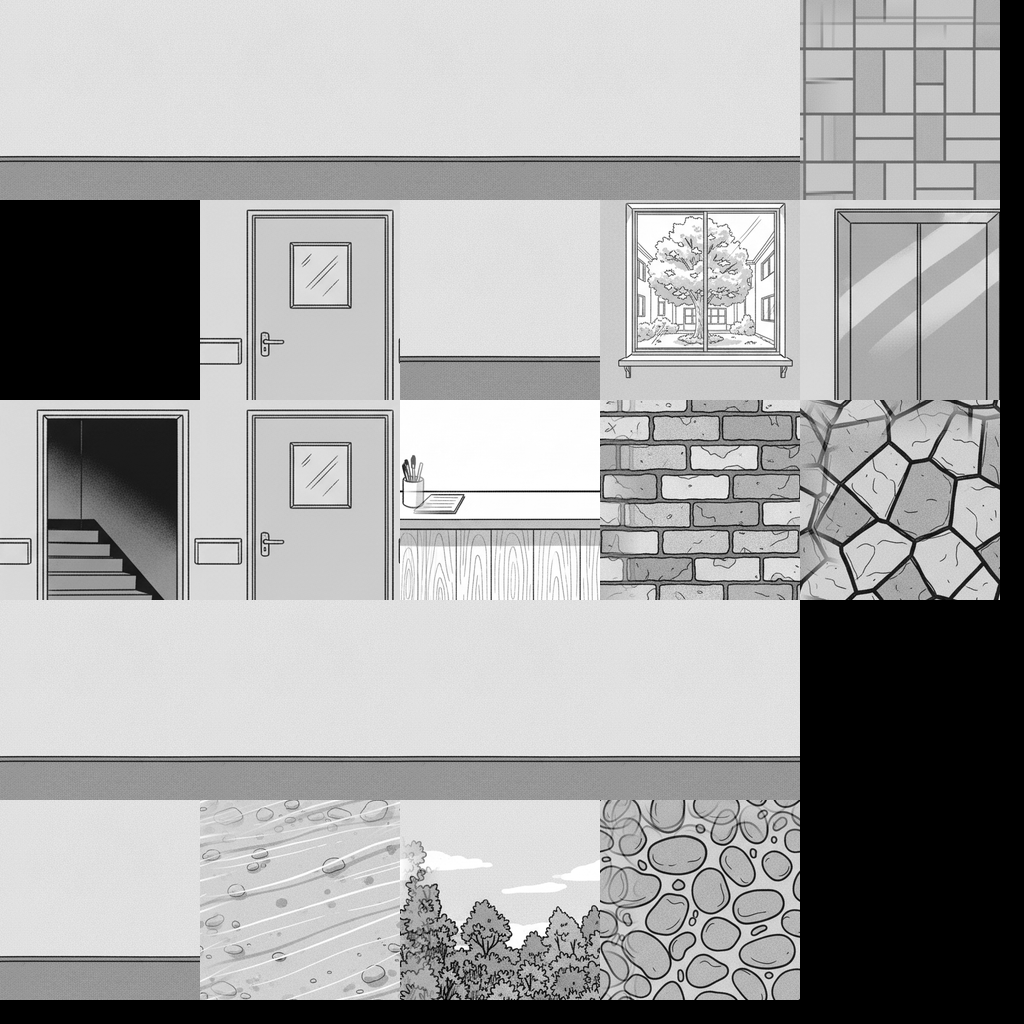
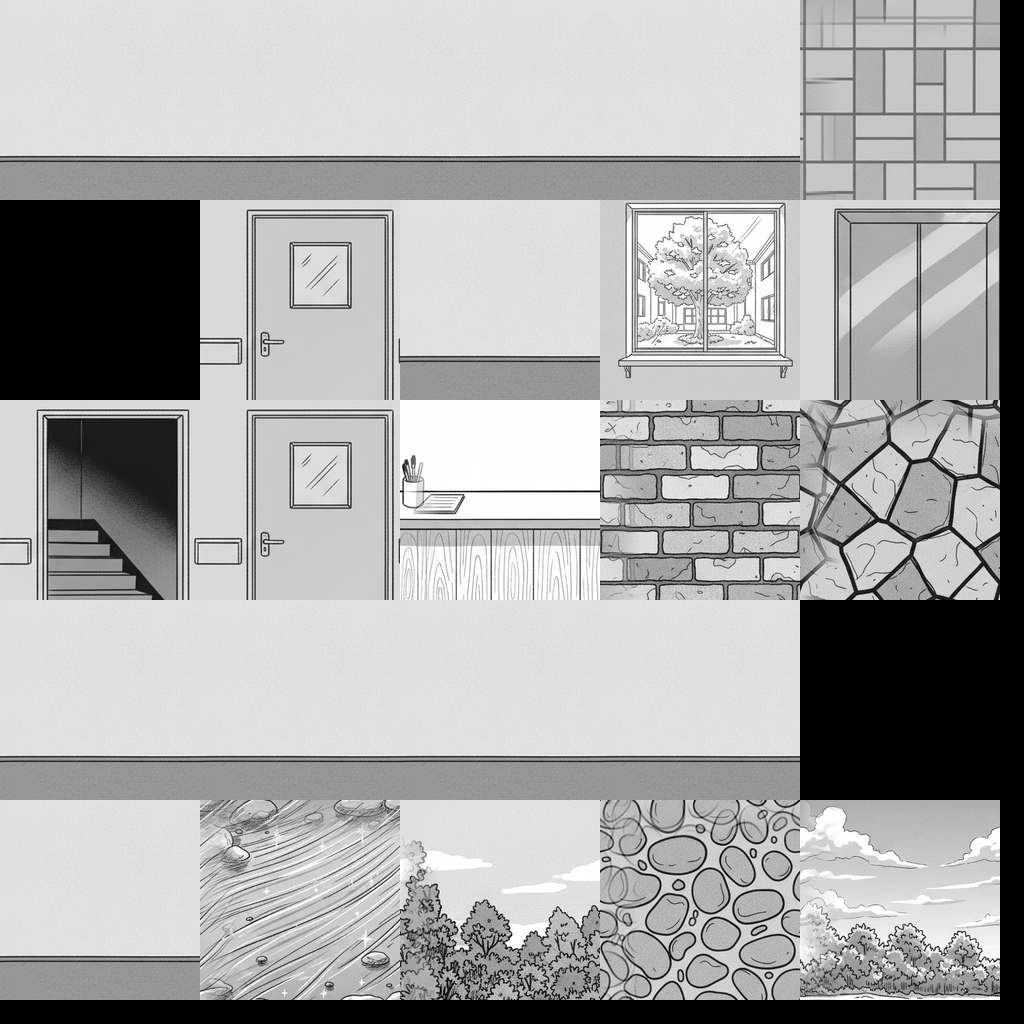
병문안 v0.76: 진짜 강 같은 강가, 계속 찾을 수 있는 소녀의 물건, 미니맵
- 강가: 아이를 빽빽한 수풀 뒤에 숨김, 하늘과 강 건너 숲을 세 칸에 이어지는 높은 배경판으로,
  흐르는 강물, 강 폭 한 줄 넓힘, 바깥은 안개를 옅게
- 소녀의 물건은 그날부터 주울 때까지 남고, 1회차에도 할 일이 끝나면 그 층을 알려 줌
- 오른쪽 위 미니맵: 주변 9칸, 내 방향, 목표(다른 층이면 엘리베이터)까지의 길
- Gemini 2회(누적 40회)

Changed region(s): [[0.7812, 0.7812, 1.0, 1.0], [0.1875, 0.7812, 0.4062, 1.0]]

diff --git a/src/features/visit/hospitalScene.ts b/src/features/visit/hospitalScene.ts
@@ -9,7 +9,10 @@ const FOCUS_MS = 420;
 const EYE = 0.64;
 const WALL_H = 1.25;
 const YARD_WALL_H = 3;
-const RIVER_TREES_H = 1.05;
+// High enough that the sky drawn over the trees fills the view above them.
+const RIVER_TREES_H = 2.6;
+// how many cells one drawing of the riverside's backdrop spans
+const RIVER_SPAN = 3;
 // A little behind the middle of the cell, or a wall ahead would fill the screen.
 const STAND_BACK = 0.36;
 // How dark everything but the person or thing you're looking at gets.
@@ -32,7 +35,7 @@ const INK = [0.09, 0.08, 0.06];
 const PAPER = [0.93, 0.9, 0.84];
 // v0.74: each a little brighter, so the drawn walls read without the quiet going out of the upper floors.
 const FLOOR_LIGHT: Record<FloorNo, number> = { 0: 1.14, 1: 1.1, 2: 1.04, 3: 0.91, 4: 0.8 };
-const FOG_COLOR: Record<FloorNo, number[]> = { 0: [0.55, 0.54, 0.5], 1: [0.26, 0.25, 0.23], 2: [0.21, 0.2, 0.19], 3: [0.14, 0.14, 0.13], 4: [0.09, 0.09, 0.09] };
+const FOG_COLOR: Record<FloorNo, number[]> = { 0: [0.8, 0.8, 0.77], 1: [0.26, 0.25, 0.23], 2: [0.21, 0.2, 0.19], 3: [0.14, 0.14, 0.13], 4: [0.09, 0.09, 0.09] };
 
 const VERTEX = /* glsl */ `
 attribute float aShade;
@@ -61,6 +64,8 @@ uniform float uDim;
 uniform vec3 uInk;
 uniform vec3 uPaper;
 uniform vec3 uFog;
+// how far the fog reaches: 1 indoors; out of doors only a haze, so the far bank and its sky still show
+uniform float uFogFar;
 uniform vec3 uDayLight;
 varying vec2 vUv;
 varying float vShade;
@@ -72,7 +77,7 @@ void main() {
   vec3 c = mix(uInk, uPaper, v) * vShade * uFloorLight;
   if (vLit > 1.5) c = vec3(0.64, 0.15, 0.25) * v;
   else if (vLit > 0.5 && v > 0.75) c = uDayLight * v;
-  float fog = smoothstep(1.2, 6.5, vDist);
+  float fog = smoothstep(1.2, 6.5 * uFogFar, vDist) * (uFogFar > 1.5 ? 0.35 : 1.0);
   // the window's light stays when the room dims around whoever you're looking at
   if (vLit > 0.5 && vLit < 1.5 && v > 0.75) gl_FragColor = vec4(c, 1.0);
   else gl_FragColor = vec4(mix(c, uFog, fog) * uDim, 1.0);
@@ -126,7 +131,7 @@ const SPRITE_SIZE: Partial<Record<SpriteLook, { w: number; h: number }>> = {
   riverCar: { w: 0.85, h: 0.85 },
   riverRocks: { w: 1.1, h: 1.1 },
   riverTent: { w: 1.3, h: 0.65 },
-  riverReeds: { w: 0.85, h: 0.85 },
+  riverBushes: { w: 1.1, h: 1.1 },
   collar: { w: 0.24, h: 0.24 },
   snack: { w: 0.24, h: 0.24 },
   laces: { w: 0.24, h: 0.24 },
@@ -272,6 +277,7 @@ export async function createHospitalScene(host: HTMLElement, dayLight: string): 
     uInk: { value: new THREE.Vector3(...INK) },
     uPaper: { value: new THREE.Vector3(...PAPER) },
     uFog: { value: new THREE.Vector3() },
+    uFogFar: { value: 1 },
     uDayLight: { value: new THREE.Color(dayLight) },
   };
   // Only the building dims when you focus: whoever you're looking at stays in the light.
@@ -377,12 +383,14 @@ export async function createHospitalScene(host: HTMLElement, dayLight: string): 
     const lits: number[] = [];
     const indices: number[] = [];
 
-    const quad = (corners: number[][], tile: number, o: { flip?: boolean; shade: number; lit?: boolean; flat?: boolean }) => {
+    // `part`: [k, n], the kth of n strips of the tile, for a drawing that runs on across n cells (the riverside's backdrop)
+    const quad = (corners: number[][], tile: number, o: { flip?: boolean; shade: number; lit?: boolean; flat?: boolean; part?: [number, number] }) => {
       const base = positions.length / 3;
       const { x, y } = tileAt(tile);
       const pad = 2;
-      const u0 = (x + pad) / SHEET;
-      const u1 = (x + TILE - pad) / SHEET;
+      const [k, n] = o.part ?? [0, 1];
+      const u0 = (x + pad + ((TILE - pad * 2) * k) / n) / SHEET;
+      const u1 = (x + pad + ((TILE - pad * 2) * (k + 1)) / n) / SHEET;
       const v0 = (y + pad) / SHEET;
       const v1 = (y + TILE - pad) / SHEET;
       const left = o.flip ? u1 : u0;
@@ -455,7 +463,8 @@ export async function createHospitalScene(host: HTMLElement, dayLight: string): 
         else if (here === '+') tile = TILES.jamb;
         else if (floor === 1 && (here === 'M' || here === 'm')) tile = TILES.shelf;
         else if (floor === 1 && here === 'i' && d === 2) tile = TILES.floorGuide;
-        else if (floor === 0) tile = TILES.treeline;
+        // across the river, the far bank; on the other sides the woods
+        else if (floor === 0) tile = d === 2 ? TILES.farBank : TILES.treeline;
         else if (yard) tile = TILES.yardWall;
         // windows: the end of her floor's corridor, above her bed, and the sitting room on the second
         else if ((here === 'W' && d === 2) || (floor === 4 && here === '_' && x === WINDOW_X && d === 2) || (floor === 2 && here === 'V' && d === 0)) {
@@ -466,7 +475,10 @@ export async function createHospitalScene(host: HTMLElement, dayLight: string): 
           flip = false;
         }
         if (tile === TILES.shutDoor || tile === TILES.lift || tile === TILES.stairs || tile === TILES.roomDoor || tile === TILES.window || tile === TILES.floorGuide) flip = false;
-        quad(wallCorners(x, y, d, h), tile, { shade: SIDE_SHADE[d], flip, lit: lit || tile === TILES.roomDoor });
+        // the riverside's woods and far bank run on across three cells, so they don't repeat cell by cell
+        const along = d === 0 ? x : d === 2 ? -x - 1 : d === 1 ? y : -y - 1;
+        const part: [number, number] | undefined = floor === 0 ? [((along % RIVER_SPAN) + RIVER_SPAN) % RIVER_SPAN, RIVER_SPAN] : undefined;
+        quad(wallCorners(x, y, d, h), tile, { shade: SIDE_SHADE[d], flip: floor === 0 ? false : flip, lit: lit || tile === TILES.roomDoor, part });
       }
     }
 
@@ -684,6 +696,7 @@ export async function createHospitalScene(host: HTMLElement, dayLight: string): 
     showFloor: (floor, sprites, pose, roomShut) => {
       shared.uFloorLight.value = FLOOR_LIGHT[floor];
       shared.uFog.value.set(FOG_COLOR[floor][0], FOG_COLOR[floor][1], FOG_COLOR[floor][2]);
+      shared.uFogFar.value = floor === 0 ? 2 : 1;
       renderer.setClearColor(new THREE.Color(FOG_COLOR[floor][0], FOG_COLOR[floor][1], FOG_COLOR[floor][2]));
       buildFloor(floor, roomShut);
       buildSprites(sprites, pose);

diff --git a/src/features/visit/Hospital.tsx b/src/features/visit/Hospital.tsx
@@ -3,12 +3,13 @@ import { Animated, Platform, StyleSheet, Text, TextInput, TouchableOpacity, View
 import { VISIT_DEV } from './flag';
 import { girlOn, PIN_ON } from './girlDays';
 import { createHospitalScene, type FocusTarget, type HospitalScene, type HospitalSprite, type SpriteLook } from './hospitalScene';
-import { ahead, ALONG_THE_WALLS, arrival, arrowFor, BEDSIDE, CLUE_CELLS, DOCTOR_FRONT, RIVER_FOUND, RIVER_MEET, RIVER_START, ENTRANCE, FLOOR_ORDER, GIRL_FRONT, goalFor, HOSPITAL, LIFT_FRONT, OUTSIDE_ROOM, placeName, ROOM_ENTRY, SHOP_FRONT, STAIRS_FRONT, stepped, thingAt, turn, tutorialAfter, tutorialGoal, type Dir, type FloorNo, type Pose, type Thing, type TutorialStep } from './hospitalMap';
+import { ahead, ALONG_THE_WALLS, arrival, arrowFor, pathTo, BEDSIDE, CLUE_CELLS, DOCTOR_FRONT, RIVER_FOUND, RIVER_MEET, RIVER_START, ENTRANCE, FLOOR_ORDER, GIRL_FRONT, goalFor, HOSPITAL, LIFT_FRONT, OUTSIDE_ROOM, placeName, ROOM_ENTRY, SHOP_FRONT, STAIRS_FRONT, stepped, thingAt, turn, tutorialAfter, tutorialGoal, type Dir, type FloorNo, type Pose, type Thing, type TutorialStep } from './hospitalMap';
 import PaperButton from './PaperButton';
 import { clueOn, CLUES, type ClueId } from './progress';
 import { boughtLine, CLUE_SPOT, CLUE_TEXT, FLOORS, FOLLOW_LIGHT, GIFTS, GUIDE_FIRST_LINES, HINT_TITLE, hintLines, PEOPLE, ROOM_SHUT, SOLD_TODAY, TUTORIAL_OK, TUTORIAL_SKIP, TUTORIAL_TIPS, TUTORIAL_TITLE, nextDayQuestion, untilTomorrow, WRITE_CRISIS, WRITE_FAILED, WRITE_OWN, WRITE_WAITING } from './script';
 import { doctorTalk, personTalk, requestGoal, REQUESTS, type Request, type Talk } from './requests';
 import BreatheTogether from './BreatheTogether';
+import Minimap from './Minimap';
 import { soundsLikeCrisis } from './safety';
 import { sendPersonaMessage, type ChatMessage } from '@/features/ai';
 import { makeSubmitOnEnterHandler } from '@/core/hooks/useSubmitOnEnter';
@@ -29,7 +30,7 @@ const TOUCH = Platform.OS !== 'web' || (typeof window !== 'undefined' && !!windo
 // The letter keys by where they sit, so they still work with the keyboard set to Hangul.
 const KEY_AT: Record<string, string> = { KeyW: 'w', KeyA: 'a', KeyS: 's', KeyD: 'd' };
 const PROP_ON_FLOOR: Record<number, SpriteLook> = { 3: 'gurney', 2: 'cart', 1: 'vending', 0: 'riverRocks' };
-const RIVER_PROP: Record<string, SpriteLook> = { C: 'riverCar', A: 'riverTent', R: 'riverReeds' };
+const RIVER_PROP: Record<string, SpriteLook> = { C: 'riverCar', A: 'riverTent', R: 'riverBushes' };
 const MEMORY_MS = 2600;
 
 /** Someone's remembered day, walked through: whose, how far in, and where you were in the hospital before it. */
@@ -503,7 +504,8 @@ export default function Hospital({ day, run, fontScale, light, doneToday, bought
   }, []);
 
   // Only the fairy's note makes a clue a goal, so a first run still stumbles on them.
-  const todaysClue = CLUES.find((c) => c.day === day && !found.includes(c.id)) ?? null;
+  // the first of her things that's out and not yet found
+  const todaysClue = CLUES.find((c) => c.day <= day && !found.includes(c.id)) ?? null;
   const goal = memory
     ? memory.stage === 'meet'
       ? { text: '강가의 아이에게 가기', floor: 0 as FloorNo, cell: { x: RIVER_MEET.x, y: RIVER_MEET.y }, face: RIVER_MEET.dir }
@@ -512,10 +514,13 @@ export default function Hospital({ day, run, fontScale, light, doneToday, bought
     doneToday,
     metDoctor: day < 7 ? metDoctor : undefined,
     request: requestGoal(asked, solved),
+    somethingOfHers: run < 2 && todaysClue ? (todaysClue.floor as FloorNo) : null,
     boughtToday,
     clueToFind: run >= 2 && todaysClue ? { floor: todaysClue.floor as FloorNo, name: CLUE_TEXT[todaysClue.id].name } : null,
   });
   const arrow = arrowFor(pose, goal);
+  // On the minimap: the goal if it's on this floor, otherwise the lift that gets you there.
+  const goalCell = !goal ? null : goal.floor === pose.floor ? goal.cell : pose.floor === 0 ? null : LIFT_FRONT;
   const textSize = { fontSize: 14 * fontScale, lineHeight: 21 * fontScale };
 
   const nextLesson = tutorialAfter(tutorial, {
@@ -604,6 +609,11 @@ export default function Hospital({ day, run, fontScale, light, doneToday, bought
               <TouchableOpacity style={[styles.mapButton, VISIT_DEV && styles.belowDev, memory && styles.hidden]} disabled={!!memory} onPress={() => panel === 'none' && !transit && setPanel('map')}>
                 <Text style={styles.mapButtonText}>지도</Text>
               </TouchableOpacity>
+              {!memory && (
+                <View style={[styles.minimap, VISIT_DEV && styles.belowDev]} pointerEvents="none">
+                  <Minimap pose={pose} goal={goalCell} path={goalCell ? pathTo(pose.floor, pose, goalCell) : []} />
+                </View>
+              )}
             </>
           )
         )}
@@ -909,6 +919,7 @@ const styles = StyleSheet.create({
   goalRow: { flexDirection: 'row', alignItems: 'center', gap: 6, alignSelf: 'flex-start', backgroundColor: 'rgba(0,0,0,0.72)', borderWidth: 1.5, borderColor: '#f2f2f2', paddingHorizontal: 9, paddingVertical: 5 },
   goalArrow: { color: AMBER, fontSize: 20, fontWeight: '700', lineHeight: 22 },
   goalText: { color: '#fff', fontFamily: 'serif', flexShrink: 1 },
+  minimap: { position: 'absolute', right: 10, top: 52 },
   mapButton: { position: 'absolute', right: 10, top: 10, paddingHorizontal: 12, paddingVertical: 8, backgroundColor: 'rgba(0,0,0,0.72)', borderWidth: 1.5, borderColor: '#f2f2f2' },
   mapButtonText: { color: '#fff', fontSize: 14, fontFamily: 'serif' },
   bottomStack: { position: 'absolute', left: 14, right: 14, bottom: 12, gap: 8 },

diff --git a/src/features/visit/hospitalMap.ts b/src/features/visit/hospitalMap.ts
@@ -13,7 +13,7 @@ export type Pose = Cell & { floor: FloorNo; dir: Dir };
 export const FLOOR_ORDER: FloorNo[] = [4, 3, 2, 1];
 
 export const HOSPITAL: Record<FloorNo, { map: string[]; rooms: Record<string, string>; blocked?: string }> = {
-  // A summer riverside: C the car, A the tent, R reeds, % rocks, ~ the river. k is where the boy waits, j where he's found.
+  // A summer riverside: C the car, A the tent, R thick bushes (nothing behind them shows), % rocks, ~ the river. k is where the boy waits, j where he's found.
   0: {
     map: [
       '###########',
@@ -22,6 +22,7 @@ export const HOSPITAL: Record<FloorNo, { map: string[]; rooms: Record<string, st
       '#.A...RRR.#',
       '#.....Rj..#',
       '#..k..R%%.#',
+      '#~~~~~~~~~#',
       '#~~~~~~~~~#',
       '#~~~~~~~~~#',
       '###########',
@@ -209,6 +210,19 @@ export function firstStep(floor: FloorNo, from: Cell, to: Cell): Dir | null {
   return step.dir;
 }
 
+/** The cells of a shortest walk, not counting where you are; empty if there's no way or you're there. */
+export function pathTo(floor: FloorNo, from: Cell, to: Cell): Cell[] {
+  const out: Cell[] = [];
+  let at: Cell = from;
+  for (let i = 0; i < 200; i++) {
+    const d = firstStep(floor, at, to);
+    if (d === null) break;
+    at = { x: at.x + DX[d], y: at.y + DY[d] };
+    out.push(at);
+  }
+  return out;
+}
+
 export type Goal = {
   text: string;
   floor: FloorNo;
@@ -218,12 +232,14 @@ export type Goal = {
   face?: Dir;
 };
 
-export function goalFor(o: { doneToday: boolean; boughtToday: boolean; clueToFind: { floor: FloorNo; name: string } | null; metDoctor?: boolean; request?: Goal | null }): Goal | null {
+export function goalFor(o: { doneToday: boolean; boughtToday: boolean; clueToFind: { floor: FloorNo; name: string } | null; metDoctor?: boolean; request?: Goal | null; somethingOfHers?: FloorNo | null }): Goal | null {
   if (!o.doneToday) return { text: '4층 소녀의 병실로 가기', floor: 4, cell: ROOM_ENTRY };
   if (o.metDoctor === false) return { text: '4층 의사 선생님의 방에 가기', floor: 4, cell: DOCTOR_FRONT, face: 2 };
   if (o.request) return o.request;
   if (o.clueToFind) return { text: `${o.clueToFind.floor}층에서 ${o.clueToFind.name} 찾기`, floor: o.clueToFind.floor, cell: null };
   if (!o.boughtToday) return { text: '1층 매점에서 선물 고르기', floor: 1, cell: SHOP_FRONT, face: 0 };
+  // Before the fairy says what it is, only that something of hers is on that floor.
+  if (o.somethingOfHers) return { text: `${o.somethingOfHers}층 어딘가에서 그 아이의 물건 찾기`, floor: o.somethingOfHers, cell: null };
   return null;
 }
 
@@ -289,7 +305,7 @@ export function thingAt(p: Pose, clueHere: boolean): Thing | null {
     if (isPerson(c)) return { kind: 'person', id: `0${c}` };
     if (c === 'C') return { kind: 'look', text: '타고 온 차다. 트렁크가 열려 있다.' };
     if (c === 'A') return { kind: 'look', text: '텐트다. 팩을 아직 덜 박았다.' };
-    if (c === 'R') return { kind: 'look', text: '갈대가 키만큼 자랐다. 너머가 잘 보이지 않는다.' };
+    if (c === 'R') return { kind: 'look', text: '수풀이 키만큼 빽빽하다. 너머가 보이지 않는다.' };
     if (c === '%') return { kind: 'look', text: HOSPITAL[0].blocked ?? '' };
     if (c === '~') return { kind: 'look', text: '강물이 얕게 반짝인다. 깊은 데는 저 멀리다.' };
     return null;

diff --git a/src/features/visit/Minimap.tsx b/src/features/visit/Minimap.tsx
@@ -1,0 +1,55 @@
+import { StyleSheet, Text, View } from 'react-native';
+import { canStand, charAt, type Cell, type Pose } from './hospitalMap';
+
+// The cells around you, north up: where you are and which way you face, and the way to the goal as a line of dots
+// (docs/병원_지도.md). Nobody is marked on it: people are for finding by walking.
+const REACH = 4;
+const SIZE = 9;
+const AMBER = '#d9a441';
+const ARROW = ['▲', '▶', '▼', '◀'];
+
+export default function Minimap({ pose, path, goal }: { pose: Pose; path: readonly Cell[]; goal: Cell | null }) {
+  const onPath = new Set(path.map((c) => `${c.x},${c.y}`));
+  const rows = [];
+  for (let dy = -REACH; dy <= REACH; dy++) {
+    const cells = [];
+    for (let dx = -REACH; dx <= REACH; dx++) {
+      const x = pose.x + dx;
+      const y = pose.y + dy;
+      const c = charAt(pose.floor, x, y);
+      const here = dx === 0 && dy === 0;
+      const isGoal = !!goal && goal.x === x && goal.y === y;
+      const fill = c === '=' ? '#7a3434' : c === '+' ? '#8a6a2c' : c === 'E' || c === 'S' ? '#3f5d78' : canStand(pose.floor, x, y) ? 'rgba(240,235,223,0.85)' : 'rgba(0,0,0,0.55)';
+      cells.push(
+        <View key={dx} style={[styles.cell, { backgroundColor: fill }]}>
+          {here ? (
+            <Text style={styles.you}>{ARROW[pose.dir]}</Text>
+          ) : isGoal ? (
+            <View style={styles.goal} />
+          ) : onPath.has(`${x},${y}`) ? (
+            <View style={styles.dot} />
+          ) : null}
+        </View>
+      );
+    }
+    rows.push(
+      <View key={dy} style={styles.row}>
+        {cells}
+      </View>
+    );
+  }
+  return (
+    <View style={styles.box} pointerEvents="none" accessibilityLabel="미니맵">
+      {rows}
+    </View>
+  );
+}
+
+const styles = StyleSheet.create({
+  box: { borderWidth: 1.5, borderColor: 'rgba(255,255,255,0.75)', backgroundColor: 'rgba(0,0,0,0.5)', padding: 1 },
+  row: { flexDirection: 'row' },
+  cell: { width: SIZE, height: SIZE, alignItems: 'center', justifyContent: 'center' },
+  you: { color: '#a3263f', fontSize: 9, lineHeight: 10, fontWeight: '700' },
+  goal: { width: 7, height: 7, backgroundColor: AMBER, borderWidth: 1, borderColor: '#000' },
+  dot: { width: 3, height: 3, borderRadius: 1.5, backgroundColor: AMBER },
+});

diff --git a/scripts/assets/generate-hospital-art.js b/scripts/assets/generate-hospital-art.js
@@ -88,6 +88,16 @@ hands unfolding a letter, the writing not visible. Only the hands and forearms s
   // The first day: hair down, both shoulders on the mattress, only her head turning.
   'lying-loose-window': `${LYING_LOOSE} Only her head is turned to the side, her face in profile looking far away out of a window. Calm, a little distant.`,
   'lying-loose-turned': `${LYING_LOOSE} Only her head is turned about halfway back toward the viewer, both eyes visible, looking up from the pillow. The faintest playful hint at the corner of her mouth.`,
+  // v0.76: a riverside that looks like one: the far bank with its sky as one tall backdrop, moving water, and bushes
+  // thick enough to hide a child.
+  'river-scene': `${SAME_STYLE} Two separate square panels side by side with a wide plain gap, each completely filled edge to edge,
+flat, no frame. Left: the far bank of a wide summer river seen straight across from the near shore, the upper half an open
+sky with soft drifting clouds, the lower half a dense line of leafy trees and bushes along the far shore, the bottom edge the
+far water's edge. Right: the surface of a clear shallow river seen from straight above, water flowing in long smooth ripples
+all one way, sparkling highlights of sunlight and faint reflections of clouds, a few stones under the water.`,
+  'river-bushes': `${SAME_STYLE} Three separate dense riverside bushes, each whole, seen straight on from the front, each wider
+than tall and as tall as an adult, the leaves packed thick so nothing behind them shows through, a few reed stalks among the
+leaves.`,
   // v0.74: the walls, floors and doors themselves, in the same hand, cut into the structure sheet. Flat and square.
   'tex-ground': `${SAME_STYLE} Four separate square texture swatches in a 2x2 grid with wide plain gaps between them, each seen straight
 from above. Each swatch completely filled edge to edge with one flat surface, no objects in front of it, evenly lit, no perspective, no vanishing lines. Top left: hospital vinyl floor tiles in a simple grid. Top right: a suspended ceiling of acoustic panels

diff --git a/src/features/visit/hospitalArt.ts b/src/features/visit/hospitalArt.ts
@@ -25,6 +25,8 @@ export const TILES = {
   water: 21,
   treeline: 22,
   pebbles: 23,
+  // v0.76: across the river, the far bank and the sky over it
+  farBank: 24,
 } as const;
 
 /** Top-left corner of a tile, in pixels. */
@@ -155,7 +157,7 @@ function doorShape(p: Pen, x: number, y: number) {
 }
 
 // Tiles taken whole from the drawn sheet when it's there; the rest are painted here, over the drawn wall where they have one.
-const DRAWN_TILES = [TILES.floor, TILES.shutDoor, TILES.window, TILES.lift, TILES.stairs, TILES.roomDoor, TILES.counter, TILES.yardWall, TILES.yardGround, TILES.water, TILES.treeline, TILES.pebbles];
+const DRAWN_TILES = [TILES.floor, TILES.shutDoor, TILES.window, TILES.lift, TILES.stairs, TILES.roomDoor, TILES.counter, TILES.yardWall, TILES.yardGround, TILES.water, TILES.treeline, TILES.pebbles, TILES.farBank];
 
 function paintStructure(c: CanvasRenderingContext2D, base: Uint8Array | null = null) {
   drawn = base;
@@ -455,7 +457,7 @@ export const EXTRA_PART = {
   signGuide: { x: 0, y: 768, w: 512, h: 128 },
   signShop: { x: 512, y: 768, w: 512, h: 128 },
   riverTent: { x: 0, y: 512, w: 512, h: 256 },
-  riverReeds: { x: 512, y: 512, w: 256, h: 256 },
+  riverBushes: { x: 512, y: 512, w: 256, h: 256 },
 } as const;
 export type ExtraPart = keyof typeof EXTRA_PART;
 

diff --git a/scripts/assets/build-hospital-sheets.js b/scripts/assets/build-hospital-sheets.js
@@ -91,7 +91,8 @@ const ITEMS = {
     { src: 'lying-loose-turned', box: [185, 165, 890, 910], cell: { x: 512, y: 0, w: 512, h: 512 }, scale: 0.657 },
     // the riverside's tent and reeds
     { src: 'river', box: [282, 322, 590, 525], cell: { x: 0, y: 512, w: 512, h: 256 } },
-    { src: 'river', box: [602, 338, 750, 728], cell: { x: 512, y: 512, w: 256, h: 256 } },
+    // v0.76: bushes thick enough to hide him, where the reeds were
+    { src: 'river-bushes', box: [28, 280, 338, 668], cell: { x: 512, y: 512, w: 256, h: 256 } },
   ],
 };
 
@@ -379,7 +380,9 @@ const STRUCTURE = [
   { tile: 12, src: 'tex-water', box: [554, 316, 965, 710], seam: 'x' },
   { tile: 13, src: 'tex-walls', box: [552, 76, 947, 466], seam: 'x' },
   { tile: 14, src: 'tex-ground', box: [84, 546, 482, 939], seam: 'xy' },
-  { tile: 21, src: 'tex-water', box: [59, 316, 470, 710], seam: 'xy' },
+  // v0.76: the river and its far bank under the sky
+  { tile: 21, src: 'river-scene', box: [554, 289, 953, 686], seam: 'xy' },
+  { tile: 24, src: 'river-scene', box: [70, 289, 484, 686], seam: 'x' },
   { tile: 22, src: 'tex-walls', box: [76, 552, 469, 946], seam: 'x' },
   { tile: 23, src: 'tex-ground', box: [551, 546, 942, 939], seam: 'xy' },
 ];

diff --git a/scripts/check-core-flow.js b/scripts/check-core-flow.js
@@ -328,6 +328,7 @@ async function main() {
       await readTip();
       t.note('병문안: 읽고 나면 아래에 작게 남음', (await t.hasText('방향키나 W, A, S, D')) && !(await t.hasText('알겠어요')));
       t.note('병문안: 3D 화면이 뜸', await waitFor(() => t.evalJs("!!document.querySelector('canvas')"), 8000));
+      t.note('병문안: 미니맵', await waitFor(() => t.evalJs("!!document.querySelector('[aria-label=\"미니맵\"]')"), 3000));
       await sleep(500);
       await t.shot('walk_lobby.png');
       t.note('병문안: 화면이 실제로 그려짐', await viewHasPicture(t));

diff --git a/src/features/visit/progress.ts b/src/features/visit/progress.ts
@@ -44,8 +44,9 @@ export const CLUES: readonly { id: ClueId; day: number; floor: number }[] = [
   { id: 'coupon', day: 6, floor: 4 },
 ];
 
+/** From its day on, a clue stays where it lies until it's picked up (v0.76: before, only on that one day). */
 export function clueOn(day: number, floor: number) {
-  return CLUES.find((c) => c.day === day && c.floor === floor) ?? null;
+  return CLUES.find((c) => c.day <= day && c.floor === floor) ?? null;
 }
 
 /** The days the doctor has a request (REQUESTS in requests.ts; scripts/check-visit-logic.mjs keeps the two the same). */

diff --git a/docs/병문안_모티브와_아트_구상.md b/docs/병문안_모티브와_아트_구상.md
@@ -187,6 +187,10 @@ No text. No horror, no blood, no medical equipment close-ups. Portrait orientati
 - **질감(5회):** 바닥 넷(리놀륨, 천장, 포석, 자갈), 세운 면 넷(복도 벽, 벽돌담, 강 건너 숲, 강물), 문 셋(병실 문, 엘리베이터, 계단), 창과 스테이션, 다시 만든 강물과 스테이션. 첫 강물은 소용돌이로, 첫 스테이션 앞면은 비어서 한 번씩 다시 만들었다. 천장은 원근이 들어가 이어 붙이면 지그재그가 되어 쓰지 않고 코드 그림을 남겼다. `build-hospital-sheets.js`가 가장자리를 섞어 이음매 없이 잘라 `sheet-structure.png`를 만들고, 게임은 그 위에 층수, 안내판, 얼룩만 덧그린다. 바닥은 대비를 절반으로 낮췄다.
 - **인물(4회):** 안내 직원, 경비, 이송 요원, 물리치료사, 옆 병실 보호자, 자원봉사자, 창가의 할아버지, 안뜰 할머니를 `sheet-people2.png`에 넣었다. 할아버지는 장기알 대신 큰 체스 말을 들고 나와 한 번 다시 만들었다. 3층 남자 간호사도 그렸지만 3층 간호사는 스테이션 뒤라 보이지 않아 쓰지 않았다.
 
+### 9차 제작 결과 (2026-11-05, Gemini 2회, 누적 40회)
+
+강가를 진짜 강처럼(사용자 요청): 강 건너 숲과 여름 하늘을 한 장에, 위에서 본 흐르는 강물을 한 장에(1회), 아이가 숨을 만큼 빽빽한 수풀(1회). 재시도는 없었다. 배경판은 2.6 높이로 세우고 그림 한 장이 세 칸에 걸쳐 이어지게 했다. 바깥에서는 안개를 옅게 해 하늘이 보인다.
+
 ### 호출 계획
 
 1. **1차 시험 (약 3회):** B1, C1, C5. 분위기가 맞는지, 같은 소녀로 보이는지 확인한다.

diff --git a/docs/의사의_부탁.md b/docs/의사의_부탁.md
@@ -63,7 +63,7 @@
 ###########
 #.C.......#   C 차. 차 옆에서 시작한다
 #.........#
-#.A...RRR.#   A 텐트, R 갈대
+#.A...RRR.#   A 텐트, R 빽빽한 수풀(v0.76, 그 뒤가 보이지 않는다)
 #.....Rj..#   j 다시 찾은 아이(갈대와 바위 뒤)
 #..k..R%%.#   k 물가에서 기다리는 아이, % 바위
 #~~~~~~~~~#   ~ 강물(볼 수만 있음)
